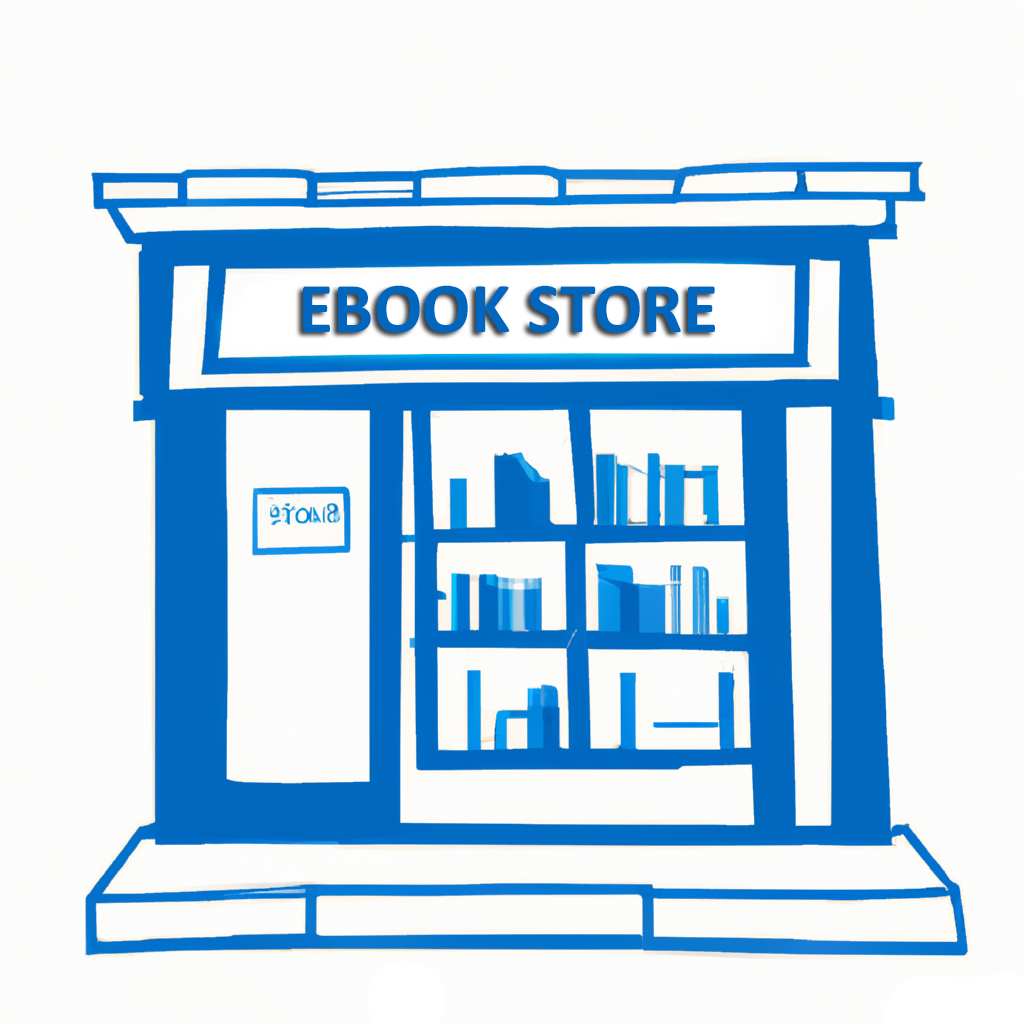
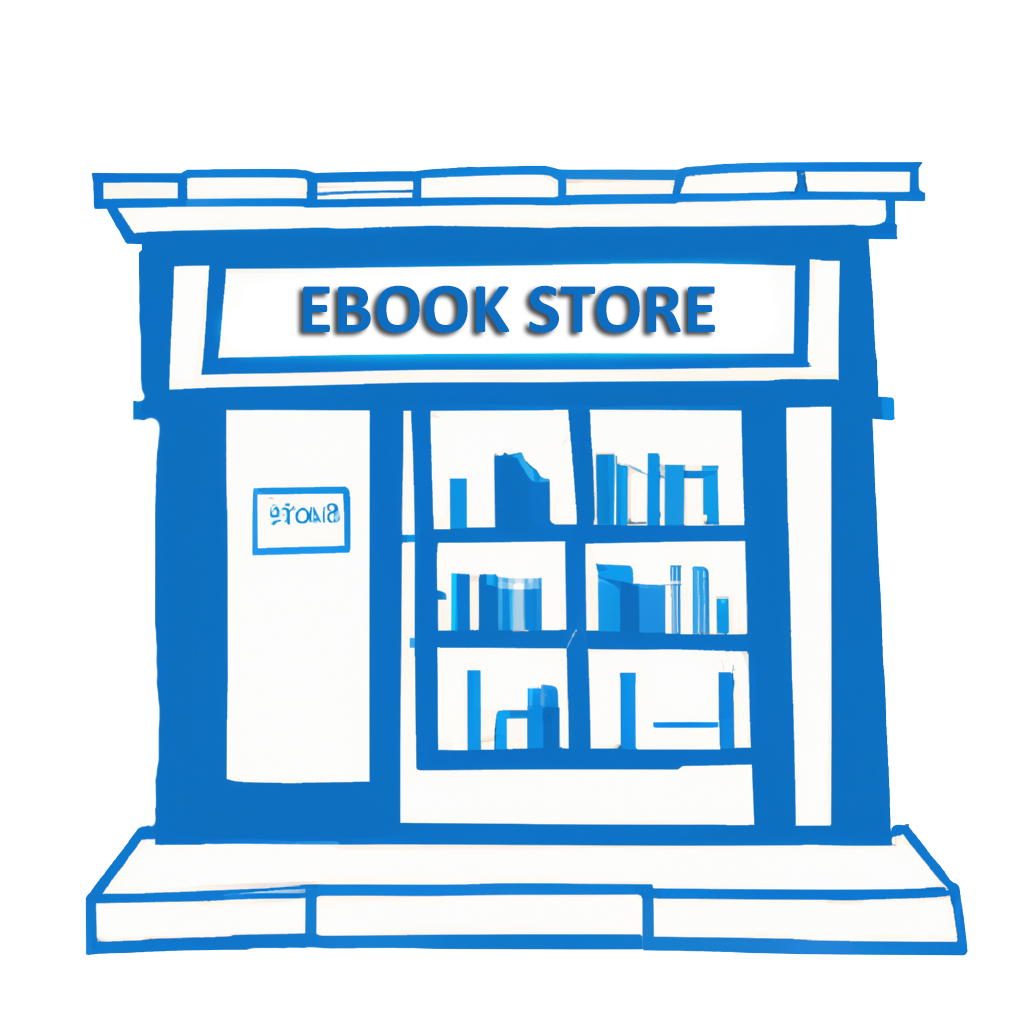
login and logout dialogs

diff --git a/src/app/components/dialogs-components/dialog/register-dialog-component/register-dialog.component.html b/src/app/components/dialogs-components/dialog/register-dialog-component/register-dialog.component.html
@@ -1,0 +1,66 @@
+<div mat-dialog-content class="login-user">
+  <h1 mat-dialog-title>REGISTER</h1>
+  <mat-icon>account_circle</mat-icon>
+    <div class="form-feilds" [hidden]="submitted">
+      <form (ngSubmit)="onSubmit()" #contactFOrm="ngForm">
+
+        <div class="form-group">
+          <mat-form-field>
+            <mat-label>First Name</mat-label>
+            <input matInput type="text" class="form-control" id="firstName"
+                 required
+                 [(ngModel)]="registerUserForm.FirstName" name="firstName"
+                 #FirstName="ngModel">
+          </mat-form-field>
+          <div [hidden]="FirstName.valid || FirstName.pristine" class="alert alert-danger">
+            First Name is <strong>required</strong>
+          </div>
+        </div>
+
+        <div class="form-group">
+          <mat-form-field>
+            <mat-label>Last Name</mat-label>
+            <input matInput type="text" class="form-control" id="lastName"
+                 required
+                 [(ngModel)]="registerUserForm.LastName" name="lastName"
+                 #LastName="ngModel">
+          </mat-form-field>
+          <div [hidden]="LastName.valid || LastName.pristine" class="alert alert-danger">
+            Last Name is <strong>required</strong>
+          </div>
+        </div>
+        
+        <div class="form-group">
+          <mat-form-field >
+          <mat-label>Email</mat-label>
+          <input matInput type="email" class="form-control" id="Email" pattern="[a-z0-9._%+-]+@[a-z0-9.-]+\.[a-z]{2,}$"
+                 required
+                 [(ngModel)]="registerUserForm.Email" name="Email"
+                 #Email="ngModel" placeholder="Ex. pat@example.com">
+          </mat-form-field>
+          <div [hidden]="Email.valid || Email.pristine"
+               class="alert alert-danger">
+               Email is <strong>required</strong> or <strong>invalid!</strong>
+          </div>
+        </div>
+
+        <div class="form-group">
+          <mat-form-field>
+            <mat-label>Password</mat-label>
+            <input matInput type="password" class="form-control" id="password"
+                 required
+                 [(ngModel)]="registerUserForm.Password" name="password"
+                 #password="ngModel">
+          </mat-form-field>
+          <div [hidden]="password.valid || password.pristine" class="alert alert-danger">
+               Password is <strong>required</strong>
+          </div>
+        </div>
+       
+
+        <button mat-raised-button type="submit" (click)="closeDialog()" [disabled]="!contactFOrm.form.valid">SIGN UP</button>
+      </form>
+    </div>
+ 
+  </div>
+

diff --git a/src/app/components/dialogs-components/dialog/login-dialog-component/login-dialog.component.html b/src/app/components/dialogs-components/dialog/login-dialog-component/login-dialog.component.html
@@ -1,0 +1,50 @@
+<div mat-dialog-content class="login-user">
+  <div class="login" *ngIf="isLoginDialogDisplay; else showRegisterDialog">
+  <h1 mat-dialog-title>LOGIN</h1>
+  <mat-icon>account_circle</mat-icon>
+    <div class="form-feilds" [hidden]="submitted">
+      <form (ngSubmit)="onSubmit()" #contactFOrm="ngForm">
+        <div class="form-group">
+          <mat-form-field >
+          <mat-label>Email</mat-label>
+          <input matInput type="email" class="form-control" id="Email" pattern="[a-z0-9._%+-]+@[a-z0-9.-]+\.[a-z]{2,}$"
+                 required
+                 [(ngModel)]="loginUserForm.Email" name="Email"
+                 #Email="ngModel" placeholder="Ex. pat@example.com">
+          </mat-form-field>
+          <div [hidden]="Email.valid || Email.pristine"
+               class="alert alert-danger">
+               Email is <strong>required</strong> or <strong>invalid!</strong>
+          </div>
+  
+        </div>
+        <div class="form-group">
+          <mat-form-field>
+            <mat-label>Password</mat-label>
+            <input matInput type="password" class="form-control" id="lastName"
+                 required
+                 [(ngModel)]="loginUserForm.Password" name="lastName"
+                 #password="ngModel">
+          </mat-form-field>
+          <div [hidden]="password.valid || password.pristine" class="alert alert-danger">
+               Password is <strong>required</strong>
+          </div>
+        </div>
+       
+
+        <button mat-raised-button type="submit" (click)="closeDialog()" [disabled]="!contactFOrm.form.valid">LOGIN</button>
+      </form>
+    </div>
+    <div class="registerBtn">
+      Not sign up? 
+      <button #register mat-button color="primary" (click)="closeDialog()">Register</button>
+    </div>
+  </div>
+<ng-template #showRegisterDialog>
+    <app-register-dialog></app-register-dialog>
+</ng-template>
+  
+    
+
+  </div>
+

diff --git a/src/app/components/contact-us/contact-us.component.html b/src/app/components/contact-us/contact-us.component.html
@@ -24,7 +24,7 @@ subNavParagraph="We are always here for you"
           <mat-label>Last Name</mat-label>
           <input matInput type="text" class="form-control" id="lastName"
                required
-               [(ngModel)]="userContactDetails.lastName" name="lastName"
+               [(ngModel)]="userContactDetails.LastName" name="lastName"
                #lastName="ngModel">
         </mat-form-field>
         <div [hidden]="lastName.valid || lastName.pristine" class="alert alert-danger">
@@ -55,7 +55,7 @@ subNavParagraph="We are always here for you"
           <mat-label>Content</mat-label>
         <textarea matInput class="form-control"  name="" id="Content" cols="30" rows="10"
         required
-               [(ngModel)]="userContactDetails.content" name="Content"
+               [(ngModel)]="userContactDetails.Content" name="Content"
                #Content="ngModel"
         
         ></textarea>
@@ -85,7 +85,7 @@ subNavParagraph="We are always here for you"
     </tr>
     <tr>
       <td class="header" mat-header-cell>Last Name:</td>
-      <td>{{userContactDetails.lastName}}</td>
+      <td>{{userContactDetails.LastName}}</td>
     </tr>
     <tr>
       <td class="header" mat-header-cell>Email:</td>
@@ -93,7 +93,7 @@ subNavParagraph="We are always here for you"
     </tr>
     <tr>
       <td class="header" mat-header-cell>Content:</td>
-      <td>{{userContactDetails.content}}</td>
+      <td>{{userContactDetails.Content}}</td>
     </tr>
  
 </table>

diff --git a/src/app/modules/app.module.ts b/src/app/modules/app.module.ts
@@ -25,7 +25,8 @@ import { StorePageComponent } from '../components/pages/store-page/store-page.co
 import { AboutDatasService } from '../services/about-data.service';
 import { StoredataService } from '../services/store-data.service';
 import { SubNavComponent } from '../components/sub-nav/sub-nav.component';
-import { DialogComponent } from '../components/dialogs-components/dialog/dialog.component';
+import { LoginDialogComponent } from '../components/dialogs-components/dialog/login-dialog-component/login-dialog.component';
+import { RegisterDialogComponent } from '../components/dialogs-components/dialog/register-dialog-component/register-dialog.component';
 
 
 @NgModule({
@@ -45,7 +46,8 @@ import { DialogComponent } from '../components/dialogs-components/dialog/dialog.
     ContactUsPageComponent,
     StorePageComponent,
     SubNavComponent,
-    DialogComponent
+    LoginDialogComponent,
+    RegisterDialogComponent
   ],
   imports: [
     BrowserModule,

diff --git a/src/app/components/dialogs-components/dialog/register-dialog-component/register-dialog.component.ts b/src/app/components/dialogs-components/dialog/register-dialog-component/register-dialog.component.ts
@@ -1,14 +1,14 @@
 import { Component, OnInit } from '@angular/core';
 import { MatDialog } from '@angular/material/dialog';
-import { UserContactDeatail } from 'src/app/models.ts/userContactDeatails';
+import { registerUserForm } from 'src/app/models.ts/userContactDeatails';
 
 
 @Component({
-  selector: 'app-dialog',
-  templateUrl: './dialog.component.html',
-  styleUrls: ['./dialog.component.scss']
+  selector: 'app-register-dialog',
+  templateUrl: './register-dialog.component.html',
+  styleUrls: ['./register-dialog.component.scss']
 })
-export class DialogComponent implements OnInit {
+export class RegisterDialogComponent implements OnInit {
 
   constructor(public dialog: MatDialog) { }
 
@@ -19,7 +19,7 @@ export class DialogComponent implements OnInit {
     this.dialog.ngOnDestroy();
   }
 
-  userContactDetails = new UserContactDeatail('', '', '', '');
+  registerUserForm = new registerUserForm('', '', '', '');
 
   submitted = false;
 

diff --git a/src/app/components/dialogs-components/dialog/login-dialog-component/login-dialog.component.ts b/src/app/components/dialogs-components/dialog/login-dialog-component/login-dialog.component.ts
@@ -1,0 +1,41 @@
+import { Component, OnInit } from '@angular/core';
+import { MatDialog } from '@angular/material/dialog';
+import { loginUserForm } from 'src/app/models.ts/userContactDeatails';
+import { RegisterDialogComponent } from '../register-dialog-component/register-dialog.component';
+
+
+@Component({
+  selector: 'app-login-dialog',
+  templateUrl: './login-dialog.component.html',
+  styleUrls: ['./login-dialog.component.scss']
+})
+export class LoginDialogComponent implements OnInit {
+
+  constructor(public dialog: MatDialog) { }
+
+  ngOnInit(): void {
+  }
+
+  closeDialog() {
+    this.isLoginDialogDisplay = false;
+  }
+
+  loginUserForm = new loginUserForm('', '');
+
+  submitted = false;
+
+  afterSubmit = true;
+
+  isLoginDialogDisplay: boolean = true;
+
+
+
+  onSubmit() {
+
+    this.submitted = true;
+    this.afterSubmit = false;
+
+
+  }
+
+}

diff --git a/src/app/models.ts/userContactDeatails.ts b/src/app/models.ts/userContactDeatails.ts
@@ -1,16 +1,28 @@
 export class UserContactDeatail {
-
-
-
     constructor(
         public firstName: string,
-        public lastName: string,
-        public content: string,
+        public LastName: string,
+        public Content: string,
         public Email: string,
 
     ) { }
-
-
-
-
 }
+
+export class loginUserForm {
+    constructor(
+        public Email: string,
+        public Password: string
+
+    ) { }
+}
+
+export class registerUserForm {
+    constructor(
+        public FirstName: string,
+        public LastName: string,
+        public Email: string,
+        public Password: string
+
+    ) { }
+}
+

diff --git a/src/app/components/navbar/navbar.component.ts b/src/app/components/navbar/navbar.component.ts
@@ -1,7 +1,8 @@
 import { Component, OnInit } from '@angular/core';
 import { MatDialog } from '@angular/material/dialog';
 import { DataService } from 'src/app/services/data.service';
-import { DialogComponent } from '../dialogs-components/dialog/dialog.component';
+import { LoginDialogComponent } from '../dialogs-components/dialog/login-dialog-component/login-dialog.component';
+
 
 
 @Component({
@@ -22,7 +23,7 @@ export class NavbarComponent implements OnInit {
 
   openDialog() {
 
-    this.dialog.open(DialogComponent);
+    this.dialog.open(LoginDialogComponent);
 
   }
 

diff --git a/src/app/components/dialogs-components/dialog/login-dialog-component/login-dialog.component.scss b/src/app/components/dialogs-components/dialog/login-dialog-component/login-dialog.component.scss
@@ -1,0 +1,32 @@
+@mixin dialogFeildWidth {
+width: 250px;;
+} 
+
+mat-form-field-flex{
+    @include dialogFeildWidth();
+}
+.login-user{
+ 
+   .form-feilds{
+    @include dialogFeildWidth();
+   }
+    mat-icon{
+        font-size: 100px;
+        position: relative;
+        left: 30%;
+    }
+    
+}
+mat-form-field{
+    @include dialogFeildWidth();
+}
+
+
+[class="alert alert-danger"]{
+    color: var(--mdc-theme-error, #f44336);
+    font-size: 12px;
+
+}
+.registerBtn{
+    margin: 20px 0;
+}

diff --git a/src/app/components/dialogs-components/dialog/register-dialog-component/register-dialog.component.scss b/src/app/components/dialogs-components/dialog/register-dialog-component/register-dialog.component.scss
@@ -1,0 +1,32 @@
+@mixin dialogFeildWidth {
+width: 250px;;
+} 
+
+mat-form-field-flex{
+    @include dialogFeildWidth();
+}
+.login-user{
+ 
+   .form-feilds{
+    @include dialogFeildWidth();
+   }
+    mat-icon{
+        font-size: 100px;
+        position: relative;
+        left: 30%;
+    }
+    
+}
+mat-form-field{
+    @include dialogFeildWidth();
+}
+
+
+[class="alert alert-danger"]{
+    color: var(--mdc-theme-error, #f44336);
+    font-size: 12px;
+
+}
+.registerBtn{
+    margin: 20px 0;
+}

diff --git a/src/app/components/pages/home/home.component.html b/src/app/components/pages/home/home.component.html
@@ -4,7 +4,7 @@ subNavParagraph="Welcome To EBook !"
 ></app-sub-nav>  
 <div class="container">
 
-    <img src="../../../../assets/Images/ebook-store.png" alt="EBook Store">
+    <img src="../../../../assets/Images/ebook-store2.png" alt="EBook Store">
 
 
 
